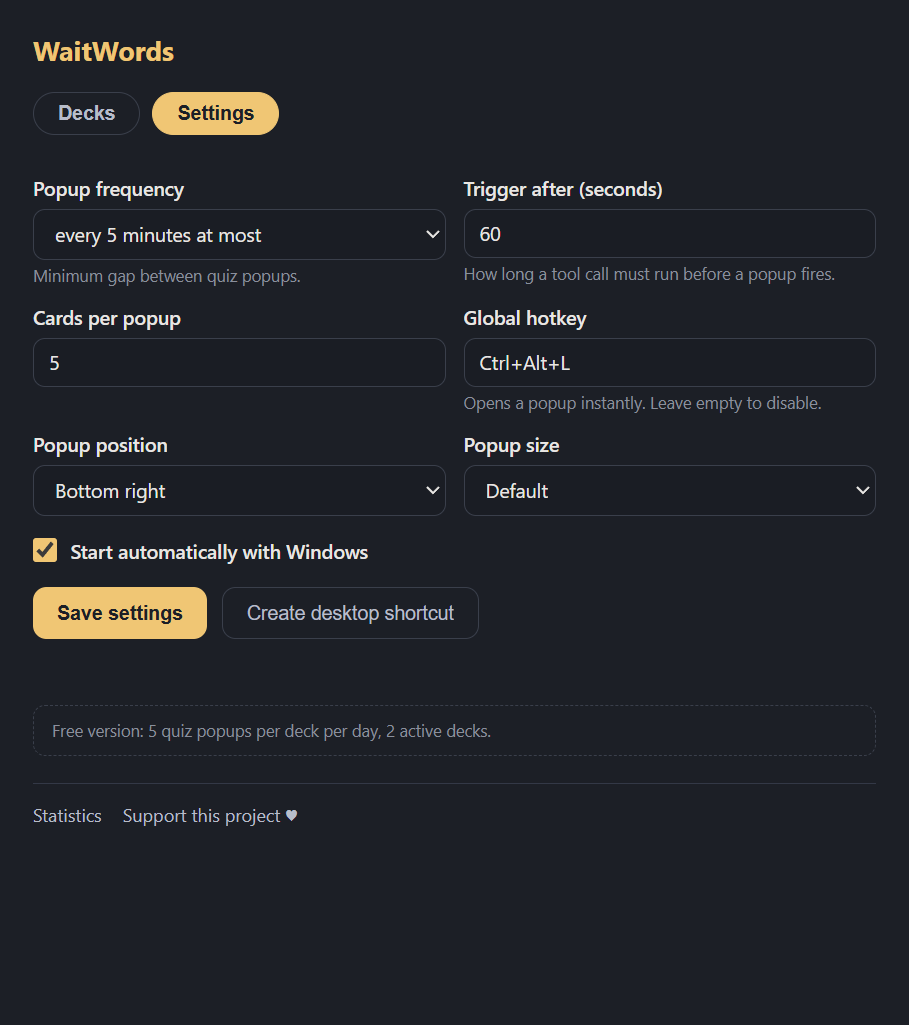
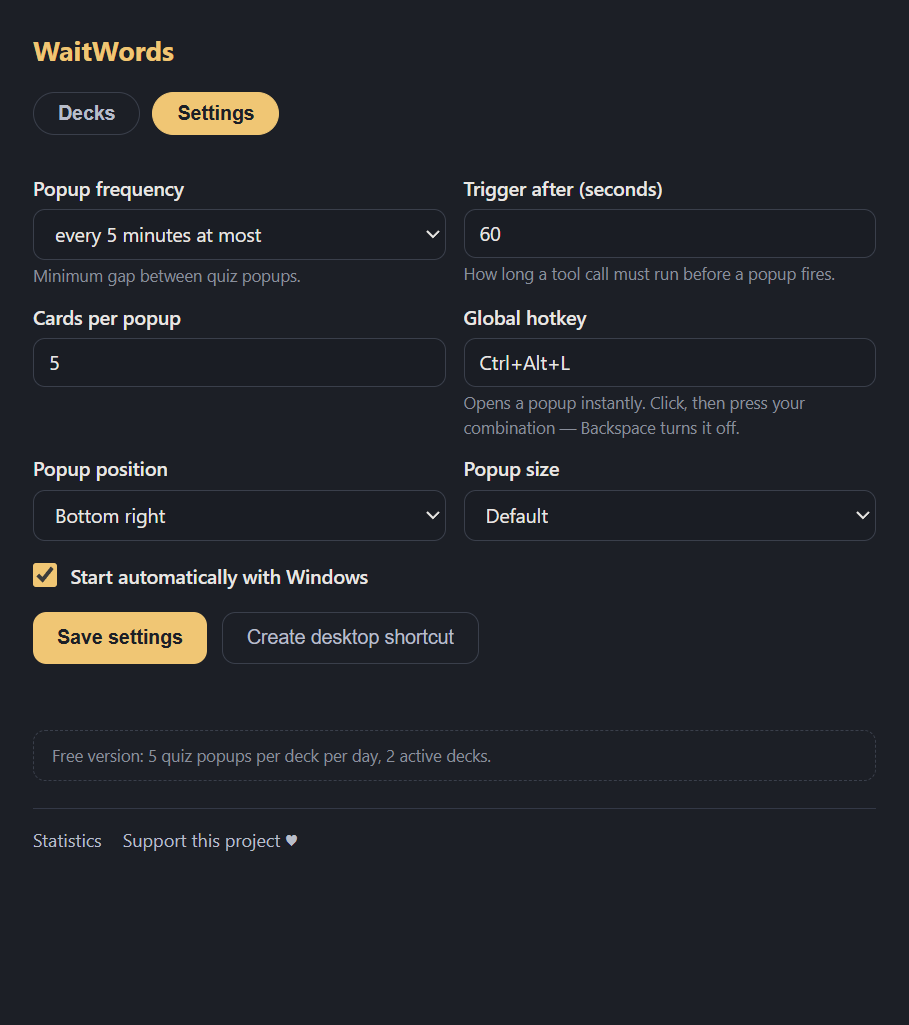
feat: record the global hotkey by pressing it instead of typing it
The hotkey field was a plain text input, so setting a hotkey meant knowing
Electron's accelerator syntax and typing "Ctrl+Alt+L" by hand — a typo just
silently produced a hotkey that never fired.

It is now a capture field: click it, press the combination, done. The
accelerator is built from the KeyboardEvent (modifiers plus e.key, so it
follows the user's keyboard layout), registered, and persisted right away —
no "Save settings" round trip. Esc cancels, Backspace turns the hotkey off,
and a combination without Ctrl/Alt/Win is refused because it would fire
while typing.

- main.js: new set-hotkey IPC owns registration and persistence; on failure
  (another program holds the combination) the previous hotkey is restored
  and the reason reported. save-settings no longer touches hotkey — one
  owner per setting.
- Mouse buttons are rejected with an explanation: Windows global hotkeys are
  keyboard-only, so a recorded mouse button could never fire. Users with
  programmable mice can map the button to a key combination and record that.
- README + menu-settings screenshot updated.

diff --git a/menu.js b/menu.js
@@ -152,6 +152,96 @@ function openEdit(d, div) {
 $('newDeckBtn').addEventListener('click', () => ipcRenderer.send('open-onboarding'));
 $('folderBtn').addEventListener('click', () => ipcRenderer.send('open-decks-folder'));
 
+// ---- Hotkey-Aufnahme
+// DOM-Tastennamen auf Electron-Accelerator-Namen abbilden; alles andere Einzelzeichen
+// (Buchstaben, Ziffern) geht großgeschrieben durch.
+const namedKeys = {
+  ' ': 'Space', 'Enter': 'Return', 'Tab': 'Tab', '+': 'Plus',
+  'ArrowUp': 'Up', 'ArrowDown': 'Down', 'ArrowLeft': 'Left', 'ArrowRight': 'Right',
+  'Home': 'Home', 'End': 'End', 'PageUp': 'PageUp', 'PageDown': 'PageDown', 'Insert': 'Insert',
+};
+const modifierKeys = ['Control', 'Alt', 'Shift', 'Meta', 'OS', 'AltGraph'];
+
+let capturing = false;
+
+function renderHotkey() {
+  const btn = $('setHotkey');
+  btn.classList.toggle('capturing', capturing);
+  if (capturing) btn.textContent = 'Press a key combination …';
+  else if (data.settings.hotkey) btn.textContent = data.settings.hotkey;
+  else btn.innerHTML = '<span class="off">off — click to set</span>';
+}
+
+function accelFrom(e) {
+  const mods = [];
+  if (e.ctrlKey) mods.push('Ctrl'); // Electron akzeptiert Ctrl und Control — Ctrl liest sich besser
+  if (e.altKey) mods.push('Alt');
+  if (e.shiftKey) mods.push('Shift');
+  if (e.metaKey) mods.push('Super');
+
+  let key = null;
+  if (/^F\d{1,2}$/.test(e.key)) key = e.key;
+  else if (namedKeys[e.key]) key = namedKeys[e.key];
+  else if (e.key.length === 1) key = e.key.toUpperCase();
+  return { mods, key };
+}
+
+async function applyHotkey(accel) {
+  const r = await ipcRenderer.invoke('set-hotkey', accel);
+  data.settings.hotkey = (r && r.hotkey) || '';
+  stopCapture();
+  if (r && r.ok) setMsg($('setMsg'), accel ? `Hotkey set to ${accel}.` : 'Hotkey turned off.', 'ok');
+  else setMsg($('setMsg'), (r && r.error) || 'Could not set that hotkey.', 'err');
+}
+
+async function onCaptureKey(e) {
+  e.preventDefault();
+  e.stopPropagation();
+  if (e.key === 'Escape') { stopCapture(); return; }
+  if (e.key === 'Backspace' || e.key === 'Delete') { await applyHotkey(''); return; }
+  if (modifierKeys.includes(e.key)) return; // noch auf die eigentliche Taste warten
+
+  const { mods, key } = accelFrom(e);
+  if (!key) return;
+  // Ohne Ctrl/Alt/Win würde die Kombi beim normalen Tippen dauernd auslösen
+  if (!mods.some((m) => m !== 'Shift')) {
+    setMsg($('setMsg'), 'Hold Ctrl, Alt or Win as well — otherwise the hotkey would fire while you type.', 'err');
+    return;
+  }
+  await applyHotkey([...mods, key].join('+'));
+}
+
+function onCaptureMouse(e) {
+  // Windows-Hotkeys kennen nur Tasten — Maustasten (auch Zusatztasten) gehen nicht
+  if (e.button >= 3) {
+    e.preventDefault();
+    e.stopPropagation();
+    setMsg($('setMsg'), 'Global hotkeys are keyboard-only. Assign a key combination to that mouse button in your mouse software, then record it here.', 'err');
+    return;
+  }
+  stopCapture(); // Klick woanders bricht die Aufnahme ab
+}
+
+function startCapture() {
+  if (capturing) return;
+  capturing = true;
+  setMsg($('setMsg'), '');
+  renderHotkey();
+  // capture: true — die Tastendrücke sollen nirgends sonst ankommen
+  document.addEventListener('keydown', onCaptureKey, true);
+  document.addEventListener('mousedown', onCaptureMouse, true);
+}
+
+function stopCapture() {
+  capturing = false;
+  document.removeEventListener('keydown', onCaptureKey, true);
+  document.removeEventListener('mousedown', onCaptureMouse, true);
+  renderHotkey();
+}
+
+$('setHotkey').addEventListener('click', startCapture);
+window.addEventListener('blur', () => { if (capturing) stopCapture(); });
+
 // ---- Settings pane
 function renderSettings() {
   const s = data.settings;
@@ -166,7 +256,7 @@ function renderSettings() {
   sel.value = String(s.cooldownMinutes);
   $('setThreshold').value = s.thresholdSeconds;
   $('setWords').value = s.wordsPerPopup;
-  $('setHotkey').value = s.hotkey;
+  renderHotkey(); // Hotkey speichert sich selbst, nicht über „Save settings"
   $('setPosition').value = s.popupPosition;
   $('setSize').value = s.popupSize;
   $('setAutostart').checked = data.autostart;
@@ -185,15 +275,13 @@ $('saveBtn').addEventListener('click', async () => {
     cooldownMinutes: Number($('setCooldown').value),
     thresholdSeconds: Number($('setThreshold').value),
     wordsPerPopup: Number($('setWords').value),
-    hotkey: $('setHotkey').value,
     popupPosition: $('setPosition').value,
     popupSize: $('setSize').value,
     autostart: $('setAutostart').checked,
   });
-  if (r && r.hotkeyError) setMsg($('setMsg'), r.hotkeyError, 'err');
-  else if (r && r.ok) setMsg($('setMsg'), 'Settings saved.', 'ok');
+  if (r && r.ok) setMsg($('setMsg'), 'Settings saved.', 'ok');
   else setMsg($('setMsg'), 'Could not save settings.', 'err');
-  refresh(false); // Werte neu laden (geclampte Zahlen, behaltener Hotkey)
+  refresh(false); // Werte neu laden (geclampte Zahlen)
 });
 
 $('shortcutBtn').addEventListener('click', async () => {

diff --git a/main.js b/main.js
@@ -663,29 +663,40 @@ ipcMain.handle('save-settings', (_e, s) => {
     config.popupSize = s.popupSize;
   }
 
-  // Hotkey live umregistrieren; bei Fehlschlag alten behalten
-  let hotkeyError = null;
-  const newHotkey = String(s.hotkey == null ? config.hotkey : s.hotkey).trim();
-  if (newHotkey !== (config.hotkey || '')) {
-    if (config.hotkey) { try { globalShortcut.unregister(config.hotkey); } catch {} }
-    if (newHotkey) {
-      let ok = false;
-      try { ok = globalShortcut.register(newHotkey, () => showPopup(true)); } catch { ok = false; }
-      if (ok) {
-        config.hotkey = newHotkey;
-      } else {
-        hotkeyError = `Hotkey "${newHotkey}" could not be registered — keeping "${config.hotkey || 'none'}".`;
-        if (config.hotkey) { try { globalShortcut.register(config.hotkey, () => showPopup(true)); } catch {} }
-      }
-    } else {
-      config.hotkey = '';
-    }
-  }
-
   if (typeof s.autostart === 'boolean') applyAutostart(s.autostart);
 
   writeConfig();
-  return { ok: true, hotkeyError };
+  return { ok: true };
+});
+
+// Hotkey wird im Menü aufgenommen und sofort gesetzt (eigener Pfad, nicht über save-settings).
+// Leerer String = Hotkey aus. Schlägt die Registrierung fehl (andere App hält die Kombi
+// bereits), bleibt der bisherige Hotkey aktiv.
+ipcMain.handle('set-hotkey', (_e, accel) => {
+  const next = String(accel || '').trim();
+  const prev = config.hotkey || '';
+  if (next === prev) return { ok: true, hotkey: prev };
+
+  if (prev) { try { globalShortcut.unregister(prev); } catch {} }
+  if (!next) {
+    config.hotkey = '';
+    writeConfig();
+    return { ok: true, hotkey: '' };
+  }
+
+  let ok = false;
+  try { ok = globalShortcut.register(next, () => showPopup(true)); } catch { ok = false; }
+  if (!ok) {
+    if (prev) { try { globalShortcut.register(prev, () => showPopup(true)); } catch {} }
+    return {
+      ok: false,
+      hotkey: prev,
+      error: `${next} is not available — another program already uses it. Still ${prev || 'off'}.`,
+    };
+  }
+  config.hotkey = next;
+  writeConfig();
+  return { ok: true, hotkey: next };
 });
 
 // Deck-Metadaten (Titel, Theme, Akzentfarbe) direkt in der Deck-Datei ändern

diff --git a/menu.html b/menu.html
@@ -61,6 +61,16 @@
   .rowflex > div { flex: 1; }
   .rowflex > div.shrink { flex: 0 0 auto; }
 
+  /* Hotkey-Feld: sieht aus wie ein Input, nimmt aber Tastenkombis auf */
+  button.hotkey {
+    width: 100%; text-align: left; font-family: inherit; font-size: 13px; font-weight: 400;
+    background: #1a1d24; border: 1px solid #3a3f4b; border-radius: 8px;
+    color: #e8e6e3; padding: 7px 10px; cursor: pointer;
+  }
+  button.hotkey:hover { border-color: #f0c674; }
+  button.hotkey.capturing { border-color: #f0c674; background: #242833; color: #f0c674; }
+  button.hotkey .off { color: #8a8f9c; }
+
   .btns { display: flex; gap: 10px; margin-top: 14px; flex-wrap: wrap; }
   button.primary {
     background: #f0c674; color: #1c1f26; border: none; border-radius: 9px;
@@ -143,8 +153,8 @@
       </div>
       <div>
         <label for="setHotkey">Global hotkey</label>
-        <input type="text" id="setHotkey" spellcheck="false" autocomplete="off" placeholder="e.g. Ctrl+Alt+L">
-        <div class="desc">Opens a popup instantly. Leave empty to disable.</div>
+        <button type="button" id="setHotkey" class="hotkey"></button>
+        <div class="desc">Opens a popup instantly. Click, then press your combination — Backspace turns it off.</div>
       </div>
     </div>
     <div class="rowflex">

diff --git a/README.md b/README.md
@@ -38,7 +38,7 @@ The hook script is fail-safe: if WaitWords isn't running it exits silently in ~1
 
 ### Everything else: hotkey
 
-ChatGPT, Claude Desktop chat, Copilot and friends expose no "I'm busy" events. For those, press **`Ctrl+Alt+L`** whenever you find yourself waiting — popup appears instantly.
+ChatGPT, Claude Desktop chat, Copilot and friends expose no "I'm busy" events. For those, press **`Ctrl+Alt+L`** whenever you find yourself waiting — popup appears instantly. Want a different combination? Decks & settings → Settings → click the hotkey field and press it.
 
 ## Using the popup
 
@@ -55,7 +55,7 @@ ChatGPT, Claude Desktop chat, Copilot and friends expose no "I'm busy" events. F
 Click ⚙ in any popup (or tray menu → **Decks & settings…**) to open the main menu:
 
 - **Decks** — see every deck with its card count and today's usage; switch the active deck, edit a deck's headline, design preset and accent color, reset its learning progress, or delete it (moved to `data/.trash/`, recoverable). **+ New deck…** reopens the setup wizard.
-- **Settings** — popup frequency (every 1–60 minutes), trigger threshold, cards per popup, global hotkey, popup position (any screen corner), popup size (small/default/large), and autostart with Windows. Changes apply immediately, no restart needed.
+- **Settings** — popup frequency (every 1–60 minutes), trigger threshold, cards per popup, global hotkey (click the field and press the combination — it records and saves it right away), popup position (any screen corner), popup size (small/default/large), and autostart with Windows. Changes apply immediately, no restart needed.
 
 <p align="center">
   <img src="docs/screenshots/menu-decks.png" width="330" alt="Decks tab: both sample decks with card count, daily usage and buttons to use, edit or delete them">
